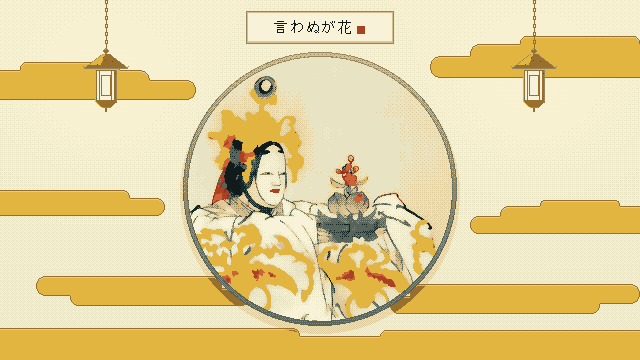
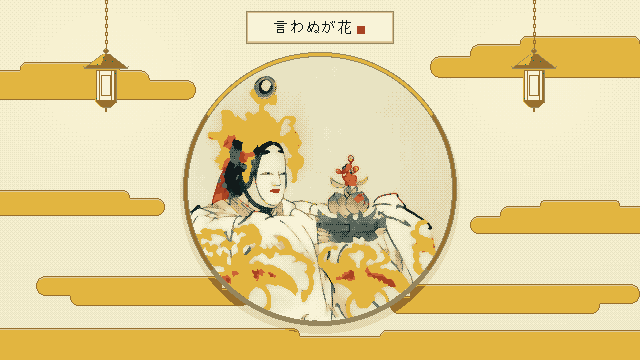
lock (T20, WIP): the light window's ring gilded wood, not a dotted grey line
An ochre body, gold where the light falls from above, shadowed at its foot, a dark line at
both edges: the lanterns' bronze and the mist's outline in one material.

diff --git a/tools/build-lock.py b/tools/build-lock.py
@@ -379,18 +379,18 @@ def light_scene():
                 px[gx + x, gy + y] = P["strong"]
     sx = gx + text.width + 6
     d.rectangle([sx, gy + text.height - 8, sx + 7, gy + text.height - 1], fill=P["accent"])   # the seal
-    # 4 the round window: its shadow on the sky and the mist, a wooden ring (lit above, a groove
-    # inside), Seiōbo through it
+    # 4 the round window: its shadow on the sky and the mist, its ring, Seiōbo through it
     shade = {P["key"]: P["view"], P["view"]: P["ground"], P["ground"]: P["edge"], P["gold"]: P["yellow"], P["edge"]: P["gold"]}
     for x, y, _ in ring(CX, CY + 5, 0, RD + RIM + 3):
         px[x, y] = shade.get(px[x, y], px[x, y])
-    wood = [P["muted"], P["lo"], P["edge2"]]
+    # its ring gilded wood — the lanterns' bronze and the mist's line in one material: an ochre
+    # body, gold where the light falls from above, shadowed at its foot, a dark line at both edges
     for x, y, r in ring(CX, CY, RD, RD + RIM):
-        a = math.atan2(y + 0.5 - CY, x + 0.5 - CX)
-        v = 0.55 - 0.40 * math.sin(a)
         if r >= RD + RIM - 1 or r < RD + 1:
-            v -= 0.35
-        px[x, y] = ramp_at(min(max(v, 0), 0.999), wood, x, y)
+            px[x, y] = P["lo"]
+            continue
+        up = -math.sin(math.atan2(y + 0.5 - CY, x + 0.5 - CX))       # 1 at the top, -1 at the foot
+        px[x, y] = P["gold"] if up > 0.55 else P["yellow"] if up > -0.6 else P["lo"]
     pic = window_of(CACHE / SEIOBO[0], SEIOBO[1], 2 * RD)
     cut = Image.new("L", pic.size, 0)
     ImageDraw.Draw(cut).ellipse([0, 0, pic.width - 1, pic.height - 1], fill=255)
